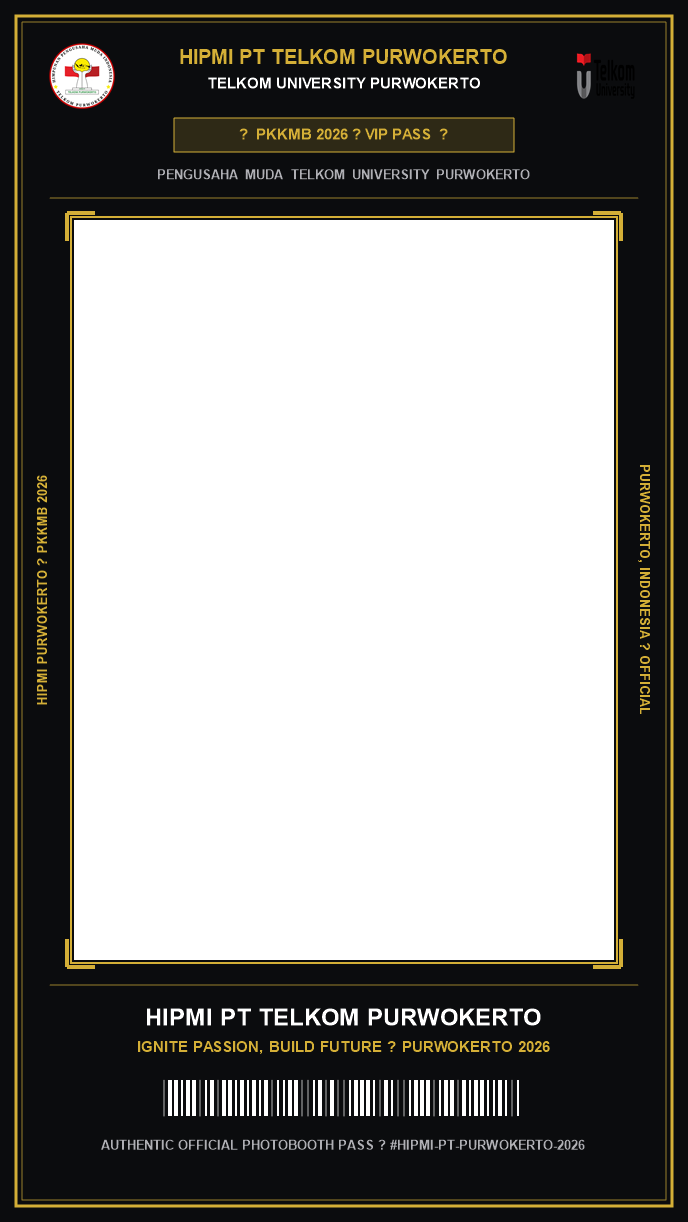
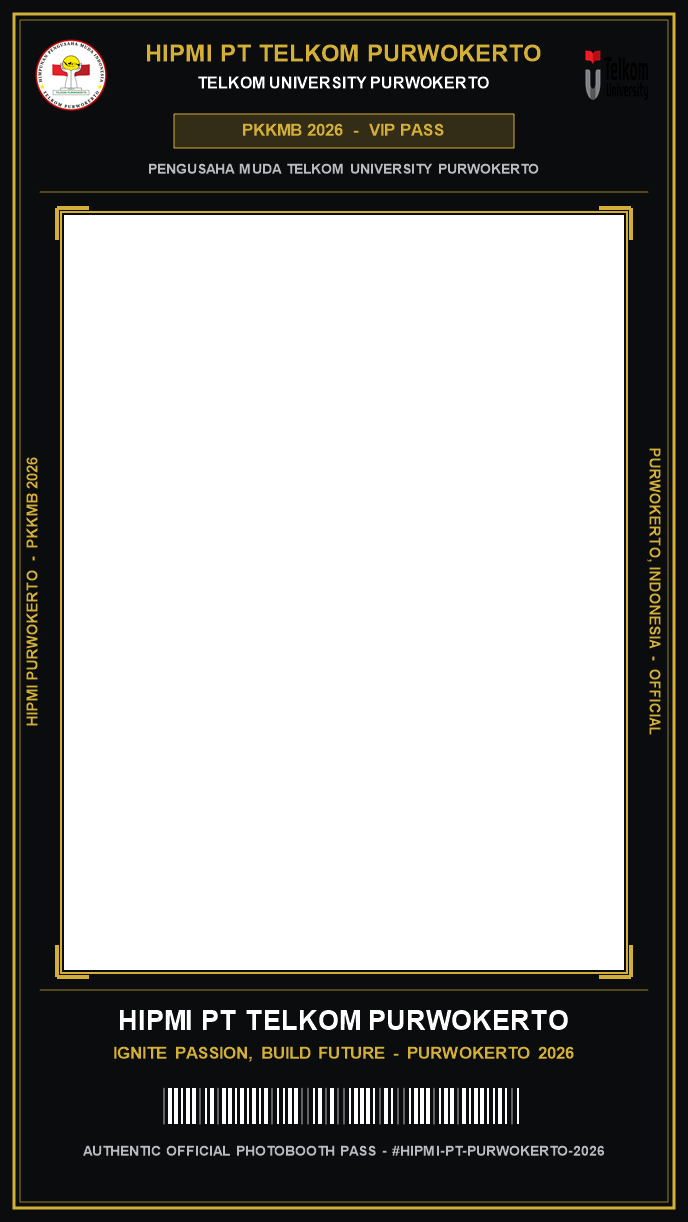
fix: responsive frame fit, prevent cropping in mobile screenshots, update QR timer to 20s, and add live camera framing guide

Changed region(s): [[0.0, 0.0, 1.0, 0.9951]]

diff --git a/src/styles/components.css b/src/styles/components.css
@@ -233,35 +233,95 @@
 
 .framing-guide {
   position: absolute;
-  inset: 10% 15%;
-  border: 1px dashed rgba(255, 255, 255, 0.25);
-  border-radius: 20px;
   pointer-events: none;
   display: flex;
   align-items: center;
   justify-content: center;
+  z-index: 15;
+  transition: all 0.3s ease;
+}
+
+/* 1 Foto (Solo VIP: ~3:4 Portrait) */
+.framing-guide.framing-guide-slots-1 {
+  aspect-ratio: 3 / 4;
+  height: 84%;
+  max-height: calc(100vh - 120px);
+  width: auto;
+  border: 2px dashed rgba(200, 168, 75, 0.8);
+  box-shadow: 0 0 0 9999px rgba(0, 0, 0, 0.48);
+  border-radius: 16px;
+}
+
+/* 3 Foto (Trio Strip: ~4:3 Landscape) */
+.framing-guide.framing-guide-slots-3 {
+  aspect-ratio: 4 / 3;
+  width: 76%;
+  max-width: calc(100vh * 1.15);
+  height: auto;
+  border: 2px dashed rgba(200, 168, 75, 0.8);
+  box-shadow: 0 0 0 9999px rgba(0, 0, 0, 0.48);
+  border-radius: 16px;
+}
+
+/* 4 Foto (Classic/Ticket: ~16:9 Wide) */
+.framing-guide.framing-guide-slots-4 {
+  aspect-ratio: 16 / 9;
+  width: 85%;
+  max-width: calc(100vh * 1.4);
+  height: auto;
+  border: 2px dashed rgba(200, 168, 75, 0.8);
+  box-shadow: 0 0 0 9999px rgba(0, 0, 0, 0.48);
+  border-radius: 16px;
+}
+
+/* Default / Fallback */
+.framing-guide:not([class*="framing-guide-slots-"]) {
+  inset: 10% 15%;
+  border: 2px dashed rgba(200, 168, 75, 0.8);
+  box-shadow: 0 0 0 9999px rgba(0, 0, 0, 0.48);
+  border-radius: 16px;
+}
+
+/* Framing Pose Hint Pill */
+.framing-hint-pill {
+  position: absolute;
+  bottom: 16px;
+  background: rgba(14, 16, 20, 0.9);
+  backdrop-filter: blur(8px);
+  border: 1px solid var(--color-accent);
+  color: var(--color-accent);
+  font-size: 12px;
+  font-weight: 800;
+  padding: 6px 18px;
+  border-radius: var(--radius-pill);
+  letter-spacing: 0.5px;
+  box-shadow: 0 4px 16px rgba(0,0,0,0.6);
+  display: flex;
+  align-items: center;
+  gap: 6px;
 }
 
 /* Corner bracket markers */
 .corner-bracket {
   position: absolute;
-  width: 24px;
-  height: 24px;
+  width: 28px;
+  height: 28px;
   border-color: var(--color-accent);
   border-style: solid;
   pointer-events: none;
+  filter: drop-shadow(0 0 4px rgba(200, 168, 75, 0.5));
 }
 
-.corner-tl { top: -1px; left: -1px; border-width: 3px 0 0 3px; border-top-left-radius: 8px; }
-.corner-tr { top: -1px; right: -1px; border-width: 3px 3px 0 0; border-top-right-radius: 8px; }
-.corner-bl { bottom: -1px; left: -1px; border-width: 0 0 3px 3px; border-bottom-left-radius: 8px; }
-.corner-br { bottom: -1px; right: -1px; border-width: 0 3px 3px 0; border-bottom-right-radius: 8px; }
+.corner-tl { top: -2px; left: -2px; border-width: 4px 0 0 4px; border-top-left-radius: 10px; }
+.corner-tr { top: -2px; right: -2px; border-width: 4px 4px 0 0; border-top-right-radius: 10px; }
+.corner-bl { bottom: -2px; left: -2px; border-width: 0 0 4px 4px; border-bottom-left-radius: 10px; }
+.corner-br { bottom: -2px; right: -2px; border-width: 0 4px 4px 0; border-bottom-right-radius: 10px; }
 
 /* Subtle head target oval */
 .face-target {
-  width: 180px;
-  height: 240px;
-  border: 1px dashed rgba(200, 168, 75, 0.3);
+  width: 170px;
+  height: 230px;
+  border: 1.5px dashed rgba(200, 168, 75, 0.35);
   border-radius: 50%;
   pointer-events: none;
 }

diff --git a/src/config/eventConfig.js b/src/config/eventConfig.js
@@ -30,7 +30,7 @@ export const defaultEventConfig = {
   // Operational Settings
   photoCount: 4, // Default: 4 (supports 1, 2, 3, 4)
   countdownSeconds: 3, // 3 -> 2 -> 1 -> Flash
-  autoResetSeconds: 15, // Return to welcome after 15s inactivity
+  autoResetSeconds: 20, // Return to welcome after 20s QR scan time (user requested)
   shutterSoundEnabled: true,
   mirrorCamera: true, // Default mirror for selfie perspective
   selectedCameraId: "", // Empty = auto/default
@@ -62,6 +62,10 @@ export function loadEventConfig() {
         let dt = typeof parsed.dateText === 'string' && parsed.dateText.trim() ? parsed.dateText.trim() : defaultEventConfig.dateText;
         if (dt.toUpperCase().includes('BANDUNG')) dt = defaultEventConfig.dateText;
 
+        // Migrate autoResetSeconds: upgrade old 15s default to 20s
+        let resetSec = Number.isInteger(parsed.autoResetSeconds) && parsed.autoResetSeconds >= 0 && parsed.autoResetSeconds <= 120 ? parsed.autoResetSeconds : defaultEventConfig.autoResetSeconds;
+        if (resetSec === 15) resetSec = 20;
+
         // Migrate cloudProvider: if previously 'none' without any custom config, upgrade to 'auto'
         let provider = 'auto';
         if (['auto', 'imgbb', 'custom'].includes(parsed.cloudProvider)) {
@@ -85,7 +89,7 @@ export function loadEventConfig() {
           dateText: dt,
           photoCount: Number.isInteger(parsed.photoCount) && parsed.photoCount >= 1 && parsed.photoCount <= 6 ? parsed.photoCount : defaultEventConfig.photoCount,
           countdownSeconds: Number.isInteger(parsed.countdownSeconds) && parsed.countdownSeconds >= 1 && parsed.countdownSeconds <= 10 ? parsed.countdownSeconds : defaultEventConfig.countdownSeconds,
-          autoResetSeconds: Number.isInteger(parsed.autoResetSeconds) && parsed.autoResetSeconds >= 0 && parsed.autoResetSeconds <= 120 ? parsed.autoResetSeconds : defaultEventConfig.autoResetSeconds,
+          autoResetSeconds: resetSec,
           mirrorCamera: typeof parsed.mirrorCamera === 'boolean' ? parsed.mirrorCamera : true,
           selectedCameraId: typeof parsed.selectedCameraId === 'string' ? parsed.selectedCameraId : "",
           hostingUrl: typeof parsed.hostingUrl === 'string' ? parsed.hostingUrl.trim() : "",

diff --git a/src/styles/main.css b/src/styles/main.css
@@ -627,19 +627,25 @@
   }
 
   .canvas-preview-wrapper {
-    max-height: 42vh;
+    max-height: 58vh;
+    max-width: 96%;
   }
 
   .canvas-preview-element {
-    max-height: 42vh;
+    max-height: 58vh;
+    max-width: 100%;
+    object-fit: contain;
   }
 
   .result-photo-frame {
-    max-height: 42vh;
+    max-height: 62vh;
+    max-width: 96%;
   }
 
   .result-photo-img {
-    max-height: 42vh;
+    max-height: 62vh;
+    max-width: 100%;
+    object-fit: contain;
   }
 
   .template-controls-col {
@@ -789,8 +795,20 @@
     height: 58px;
   }
 
-  .framing-guide {
-    inset: 12% 8%;
+  .framing-guide.framing-guide-slots-1 {
+    aspect-ratio: 3 / 4;
+    height: 76%;
+    width: auto;
+  }
+  .framing-guide.framing-guide-slots-3 {
+    aspect-ratio: 4 / 3;
+    width: 86%;
+    height: auto;
+  }
+  .framing-guide.framing-guide-slots-4 {
+    aspect-ratio: 16 / 9;
+    width: 92%;
+    height: auto;
   }
 
   .countdown-digits {
@@ -1010,26 +1028,28 @@
 
 .mobile-viewer-card {
   width: 100%;
-  max-width: 440px;
-  border-radius: 16px;
-  box-shadow: 0 24px 64px rgba(0, 0, 0, 0.7), 0 0 0 1px rgba(200, 168, 75, 0.2);
+  max-width: min(100%, 460px);
   margin-bottom: 20px;
-  background: #14161B;
+  background: transparent;
   flex-shrink: 0;
   display: flex;
   align-items: center;
   justify-content: center;
   position: relative;
-  overflow: hidden;
+  overflow: visible;
+  box-shadow: none;
   transform: translateZ(0);
 }
 
 .mobile-viewer-card img {
   width: 100%;
   height: auto;
+  max-height: 72vh;
+  max-height: 72dvh;
   display: block;
-  border-radius: 15px;
+  border-radius: 4px;
   object-fit: contain;
+  box-shadow: 0 16px 50px rgba(0, 0, 0, 0.75), 0 0 0 1px rgba(200, 168, 75, 0.3);
   transition: opacity 0.3s cubic-bezier(0.16, 1, 0.3, 1);
   will-change: opacity;
 }

diff --git a/src/main.js b/src/main.js
@@ -44,7 +44,7 @@ class PhotoboothApp {
     const actionParam = urlParams.get('action');
     const photoParam = urlParams.get('photo');
 
-    if (sessionParam && (actionParam === 'view' || actionParam === 'download')) {
+    if (sessionParam) {
       this.renderMobileViewer(sessionParam, photoParam);
       return;
     }
@@ -424,7 +424,7 @@ class PhotoboothApp {
     // 1. Check in-memory session if on same booth device
     if (!displayPhotoUrl) {
       const session = sessionManager.getSession();
-      if (session && session.finalDataUrl && session.sessionId === sessionId) {
+      if (session && session.finalDataUrl && (session.sessionId === sessionId || sessionId === 'HIPMI' || sessionId === 'latest')) {
         displayPhotoUrl = session.finalDataUrl;
       }
     }
@@ -432,7 +432,13 @@ class PhotoboothApp {
     // 2. Check local IndexedDB history
     if (!displayPhotoUrl) {
       try {
-        const historyItem = await historyStorage.getById(sessionId);
+        let historyItem = await historyStorage.getById(sessionId);
+        if (!historyItem && (sessionId === 'HIPMI' || sessionId === 'latest' || sessionId.startsWith('HIPMI'))) {
+          const recentList = await historyStorage.getRecent(1);
+          if (recentList && recentList.length > 0) {
+            historyItem = recentList[0];
+          }
+        }
         if (historyItem) {
           displayPhotoUrl = historyItem.uploadedUrl || historyItem.finalDataUrl;
         }

diff --git a/api/upload.js b/api/upload.js
@@ -36,11 +36,21 @@ export default async function handler(req, res) {
       return res.status(400).json({ success: false, error: 'Session ID diperlukan.' });
     }
 
-    const cached = globalThis._hipmiRecentUploads.get(sessionId);
+    let cached = globalThis._hipmiRecentUploads.get(sessionId);
+
+    // If exact sessionId not found, and requested session is 'HIPMI' or 'latest', find the most recent upload
+    if (!cached && (sessionId === 'HIPMI' || sessionId === 'latest' || sessionId.startsWith('HIPMI-') || sessionId.startsWith('HIPMI'))) {
+      if (globalThis._hipmiRecentUploads.size > 0) {
+        const items = Array.from(globalThis._hipmiRecentUploads.values());
+        items.sort((a, b) => b.time - a.time);
+        cached = items[0];
+      }
+    }
+
     if (cached && cached.url) {
       return res.status(200).json({
         success: true,
-        sessionId,
+        sessionId: cached.sessionId || sessionId,
         url: cached.url,
         uploadedAt: cached.time
       });
@@ -166,6 +176,7 @@ function saveUploadCache(sessionId, url) {
     globalThis._hipmiRecentUploads = new Map();
   }
   globalThis._hipmiRecentUploads.set(sessionId, {
+    sessionId,
     url,
     time: Date.now()
   });

diff --git a/src/ui/cameraView.js b/src/ui/cameraView.js
@@ -61,13 +61,16 @@ export class CameraView {
       <div class="camera-container">
         <video class="camera-video" id="camera-feed" autoplay playsinline muted></video>
 
-        <!-- Framing Guide & Safe Zone -->
-        <div class="framing-guide" id="framing-guide">
+        <!-- Framing Guide & Safe Zone with Layout-Aware Aspect Mask -->
+        <div class="framing-guide framing-guide-slots-${this.totalSlots}" id="framing-guide">
           <div class="corner-bracket corner-tl"></div>
           <div class="corner-bracket corner-tr"></div>
           <div class="corner-bracket corner-bl"></div>
           <div class="corner-bracket corner-br"></div>
           <div class="face-target"></div>
+          <div class="framing-hint-pill">
+            ${this.totalSlots === 1 ? '👑 AREA FOTO 1 SOLO VIP' : this.totalSlots === 3 ? '📸 AREA FOTO 3 STRIP' : '🎞 AREA FOTO 4 CLASSIC'}
+          </div>
         </div>
 
         <!-- Photo Counter Pill -->

diff --git a/src/ui/operatorModal.js b/src/ui/operatorModal.js
@@ -108,7 +108,8 @@ export class OperatorModal {
             <label class="form-label" for="cfg-auto-reset">Result Auto-Reset Duration</label>
             <select id="cfg-auto-reset" class="form-select">
               <option value="10" ${this.eventConfig.autoResetSeconds === 10 ? 'selected' : ''}>10 Seconds</option>
-              <option value="15" ${this.eventConfig.autoResetSeconds === 15 ? 'selected' : ''}>15 Seconds (Default)</option>
+              <option value="15" ${this.eventConfig.autoResetSeconds === 15 ? 'selected' : ''}>15 Seconds</option>
+              <option value="20" ${this.eventConfig.autoResetSeconds === 20 ? 'selected' : ''}>20 Seconds (Default)</option>
               <option value="30" ${this.eventConfig.autoResetSeconds === 30 ? 'selected' : ''}>30 Seconds</option>
               <option value="0" ${this.eventConfig.autoResetSeconds === 0 ? 'selected' : ''}>Disabled (Manual Only)</option>
             </select>

diff --git a/src/engine/canvasRenderer.js b/src/engine/canvasRenderer.js
@@ -281,13 +281,15 @@ class CanvasRenderer {
       }
     });
 
+    const hasValidOverlay = Boolean(frameOverlayImg && (frameOverlayImg.naturalWidth > 1 || frameOverlayImg.width > 1));
+
     // 3.5 Draw Frame Overlay on top of photos
-    if (frameOverlayImg) {
+    if (hasValidOverlay) {
       ctx.drawImage(frameOverlayImg, 0, 0, width, height);
     }
 
-    // 4. Draw Header Branding & Typography (skip for custom artistic frame overlays)
-    if (!frameOverlayImg) {
+    // 4. Draw Header Branding & Typography (skip only when artistic frameOverlay exists and is valid)
+    if (!hasValidOverlay) {
       this._renderHeader(ctx, template, eventConfig, customization, logoHipmiImg, logoTeluImg, width);
       this._renderFooter(ctx, template, eventConfig, customization, logoHipmiImg, logoTeluImg, width, height);
     }

diff --git a/src/config/templates.js b/src/config/templates.js
@@ -381,9 +381,9 @@ export const TEMPLATES = [
     accentColor: "#D4AF37",
     frameOverlay: "/assets/templates/frame-pkkmb-single.png",
     getSlots: (photoCount) => {
-      // Fixed 1 physical slot matching the exact transparent cutout
+      // Fixed 1 physical slot matching the exact transparent cutout (560x755, ~3:4 aspect)
       return [
-        { id: 0, x: 74, y: 220, width: 540, height: 740, borderRadius: 0, objectFit: "cover" }
+        { id: 0, x: 64, y: 215, width: 560, height: 755, borderRadius: 0, objectFit: "cover" }
       ];
     }
   }

diff --git a/src/ui/resultView.js b/src/ui/resultView.js
@@ -30,7 +30,7 @@ export class ResultView {
     this.uploadedUrl = '';
 
     this.container = null;
-    this.autoResetDuration = Number.isInteger(eventConfig.autoResetSeconds) ? eventConfig.autoResetSeconds : 15;
+    this.autoResetDuration = Number.isInteger(eventConfig.autoResetSeconds) ? eventConfig.autoResetSeconds : 20;
     this.remainingSeconds = this.autoResetDuration;
     this.resetTimer = null;
     this.isResetting = false;
